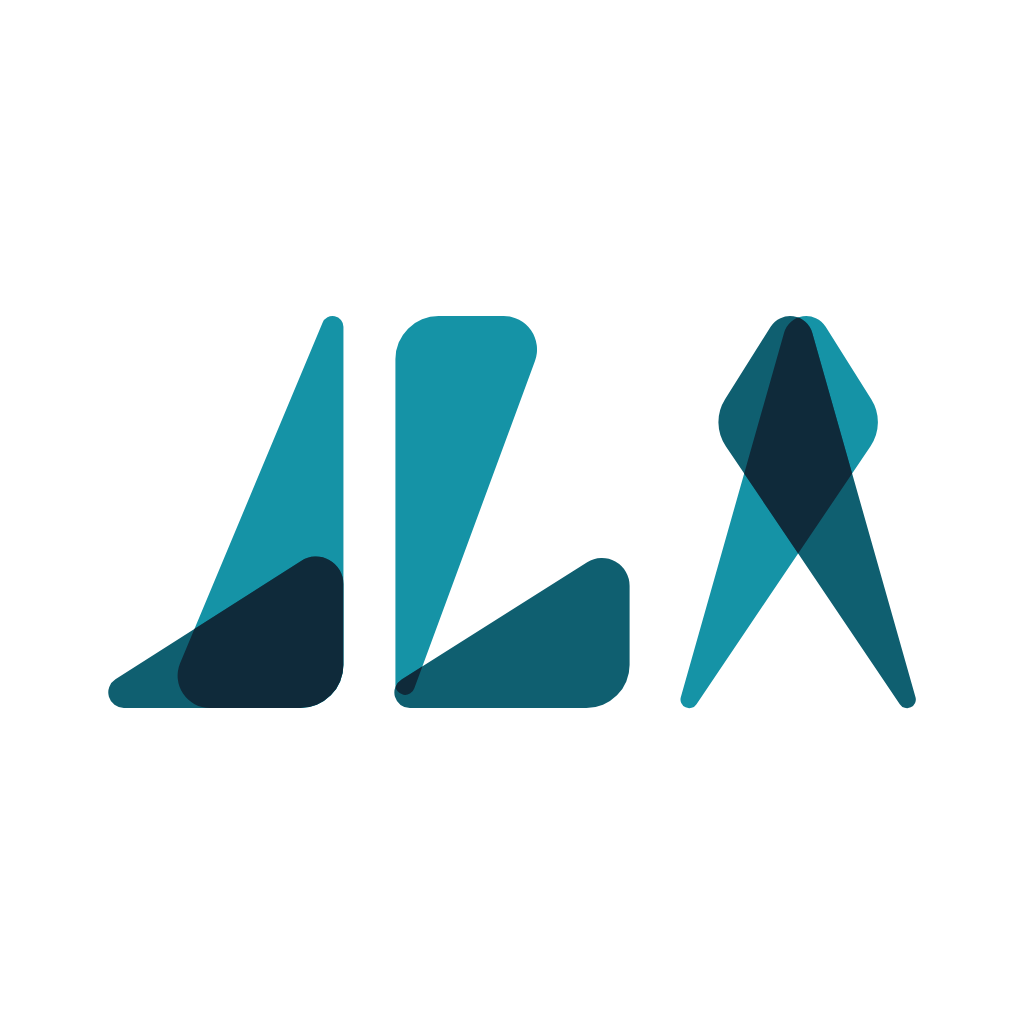
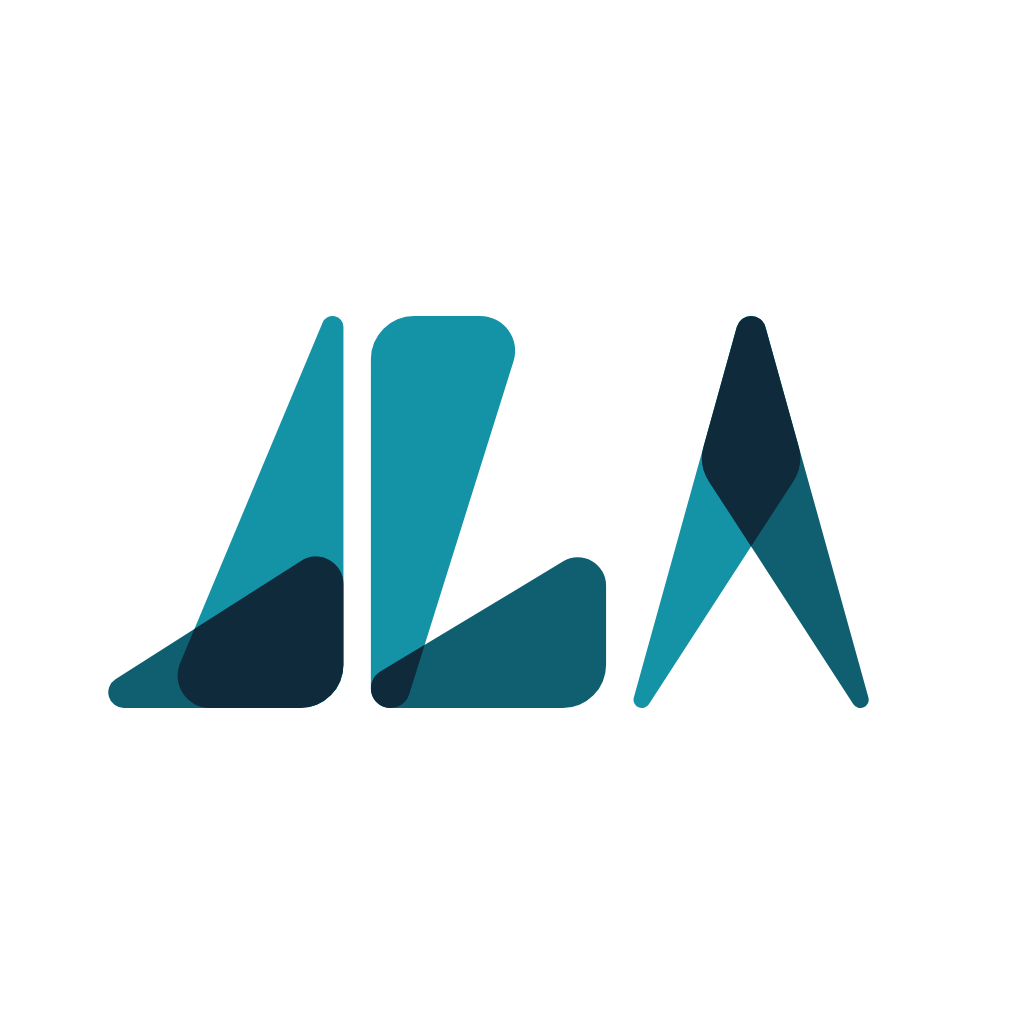
Isotipo: G and A tips overlap completely, letters closer
The A's two legs now share both outer edges at the apex, so their rounded
tips coincide. The G's two triangles are rounded on one shared circle in
the bottom-left corner, their long sides tangent to it. Letters are 7
units apart instead of 13, and the horizontal logos close up the gap to
the wordmark accordingly.

Claude-Session: https://claude.ai/code/session_01UzgqEWbj3j1NSymTgUrLLZ

Changed region(s): [[0.3438, 0.3125, 0.9062, 0.6875], [0.4375, 0.3125, 0.5312, 0.5625]]

diff --git a/src/data/mark.js b/src/data/mark.js
@@ -5,13 +5,17 @@
 /** Letter box: taller than wide. */
 const W = 60;
 const H = 100;
-const GAP = 13;
+const GAP = 7;
 /** Corner radius of a right angle; sharper corners get proportionally less. */
 const RADIUS = 11;
 
+/** The G's two tips meet at its bottom-left corner, rounded on one circle. */
+const G_CORNER = 5;
+
 /**
- * Two triangles per letter, in letter-box units (y down). Rounding pulls the
- * tips inwards, so each letter is then stretched back to fill its box.
+ * Two triangles per letter, in letter-box units (y down); a vertex may carry a
+ * third number, its own corner radius. Rounding pulls the tips inwards, so
+ * each letter is then stretched back to fill its box.
  * The J and the G are built from the same pair, a tall triangle (40 x 100)
  * and a flat one (60 x 40); only the tall one points the other way.
  */
@@ -22,18 +26,41 @@ const LETTERS = [
     [[0, 100], [60, 100], [60, 60]],
   ],
   // G: top bar folded down the left side, bottom wedge rising on the right.
-  // Their tips run a little past the corner so the two still meet, folded,
-  // at the bottom left once rounded.
+  // Both tips are rounded on the same circle in the corner, so they overlap
+  // completely: each long side is the tangent from its far corner to it.
+  (() => {
+    const c = [G_CORNER, H - G_CORNER];
+    // Of the two tangents, take the one with the circle between it and the edge.
+    const top = tangent([40, 0], c, G_CORNER, 'left').sort((a, b) => b[1] - a[1])[0];
+    const base = tangent([60, 56], c, G_CORNER, 'bottom').sort((a, b) => a[0] - b[0])[0];
+    return [
+      [[0, 0], [40, 0], [...top, G_CORNER]],
+      [[...base, G_CORNER], [60, 100], [60, 56]],
+    ];
+  })(),
+  // A: two legs folded over each other at the top. Both run along the same two
+  // outer edges from the apex, so their tips overlap completely; each one's
+  // shoulder hides under the other leg.
   [
-    [[0, 0], [40, 0], [0, 108]],
-    [[-10, 100], [60, 100], [60, 56]],
-  ],
-  // A: two legs that cross at the top, folded over each other.
-  [
-    [[0, 100], [30, 0], [50, 30]],
-    [[60, 100], [30, 0], [10, 30]],
+    [[30, 0], [0, 100], [42, 40]],
+    [[30, 0], [60, 100], [18, 40]],
   ],
 ];
+
+/**
+ * Where the two lines from `p` tangent to the circle (c, r) cross the left
+ * (x = 0) or bottom (y = H) edge of the letter box.
+ */
+function tangent(p, c, r, edge) {
+  const d = Math.hypot(c[0] - p[0], c[1] - p[1]);
+  const base = Math.atan2(c[1] - p[1], c[0] - p[0]);
+  return [1, -1].map((side) => {
+    const a = base + side * Math.asin(r / d);
+    const dir = [Math.cos(a), Math.sin(a)];
+    const t = edge === 'left' ? -p[0] / dir[0] : (H - p[1]) / dir[1];
+    return [p[0] + dir[0] * t, p[1] + dir[1] * t];
+  });
+}
 
 export const palettes = {
   dark: { a: '#74f1ff', b: '#1fa9c0', fold: '#c8f9ff' },
@@ -51,7 +78,7 @@ function corners(points) {
     const u2 = unit([next[0] - p[0], next[1] - p[1]]);
     const angle = Math.acos(u1[0] * u2[0] + u1[1] * u2[1]);
     const half = angle / 2;
-    const r = RADIUS * Math.min(1, angle / (Math.PI / 2));
+    const r = p[2] ?? RADIUS * Math.min(1, angle / (Math.PI / 2));
     const t = r / Math.tan(half);
     const bis = unit([u1[0] + u2[0], u1[1] + u2[1]]);
     return {
@@ -94,7 +121,7 @@ function fit(tris) {
     const [x0, y0, x1, y1] = bounds(tris);
     const sx = W / (x1 - x0);
     const sy = H / (y1 - y0);
-    tris = tris.map((tri) => tri.map(([x, y]) => [(x - x0) * sx, (y - y0) * sy]));
+    tris = tris.map((tri) => tri.map(([x, y, r]) => [(x - x0) * sx, (y - y0) * sy, r]));
   }
   return tris;
 }
@@ -122,7 +149,7 @@ export function markSvg(palette = palettes.dark, id = 'jga') {
   let body = '';
   LETTERS.forEach((tris, i) => {
     const dx = i * (W + GAP);
-    const [p1, p2] = fit(tris).map((tri) => rounded(tri.map(([x, y]) => [x + dx, y])));
+    const [p1, p2] = fit(tris).map((tri) => rounded(tri.map(([x, y, r]) => [x + dx, y, r])));
     defs += `<clipPath id="${id}-${i}"><path d="${p1}"/></clipPath>`;
     body +=
       `<path fill="${palette.a}" d="${p1}"/>` +
